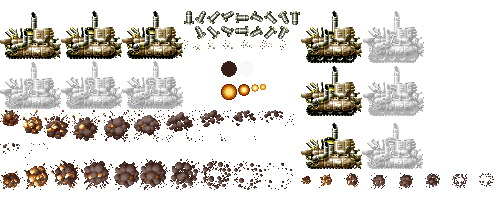
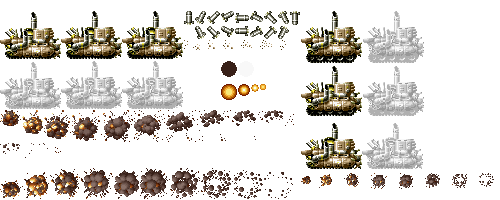
added miniTank full animations (see desc.)
- added miniTank pipe smoke animation when it shoots
- added dust particles to chains
- added damage animations and logic

Changed region(s): [[0.0, 0.81, 0.57, 0.99], [0.57, 0.87, 0.6, 0.9]]

diff --git a/EnemyMiniTank.cpp b/EnemyMiniTank.cpp
@@ -66,6 +66,8 @@ Enemy_MiniTank::Enemy_MiniTank(int x, int y, powerUpTypes type, SDL_Texture* thi
 
 	// -----------------------------------------------------------------
 	enemyTex = thisTexture; // links enemy to correct texture
+	//
+	enemyType = MINITANK;
 
 	powerUpType = type; // assigns receveid powerup
 
@@ -76,19 +78,31 @@ Enemy_MiniTank::Enemy_MiniTank(int x, int y, powerUpTypes type, SDL_Texture* thi
 
 	// animations ------------------------------------------------------------------------------
 	// 
-	// normal anim up 8 frames, 4 and 4 ---
+	// movement normal anim up 8 frames, 4 and 4 ---
 	cartePillar.moveAnim[NORMAL_ANIM].PushBack({61,11,61,48}); // wheels 1 || 4 frames
 	cartePillar.moveAnim[NORMAL_ANIM].PushBack({ 122,11,61,48 }); // wheels 2 || 4 frames
 	cartePillar.moveAnim[NORMAL_ANIM].PushBack({ 0,11,61,48 }); // wheels down || 4 frames
 	cartePillar.moveAnim[NORMAL_ANIM].speed = 0.25f;
+	// movement damage anim
+	cartePillar.moveAnim[DAMAGE_ANIM].PushBack({ 61,61,61,48 }); // wheels 1 || 4 frames
+	cartePillar.moveAnim[DAMAGE_ANIM].PushBack({ 122,61,61,48 }); // wheels 2 || 4 frames
+	cartePillar.moveAnim[DAMAGE_ANIM].PushBack({ 0,61,61,48 }); // wheels down || 4 frames
+	cartePillar.moveAnim[DAMAGE_ANIM].speed = 0.25f;
 	// ------------------------------------
-	// shooting animation ---
+	// shooting animation NORMAL ---
 	cartePillar.shootAnim[NORMAL_ANIM].PushBack({ 301,64,61,52 }); // mid up 4 frames
 	cartePillar.shootAnim[NORMAL_ANIM].PushBack({ 301,11,61,52 }); // top up 4 frames
 	for (int i = 0; i < 6; ++i)
 		cartePillar.shootAnim[NORMAL_ANIM].PushBack({ 301,117,61,52 }); // top down 24 frames
 	cartePillar.shootAnim[NORMAL_ANIM].speed = 0.25f;
 	cartePillar.shootAnim[NORMAL_ANIM].repeat = false;
+	// shooting animation DAMAGE ---
+	cartePillar.shootAnim[DAMAGE_ANIM].PushBack({ 363,64,61,52 }); // mid up 4 frames
+	cartePillar.shootAnim[DAMAGE_ANIM].PushBack({ 363,11,61,52 }); // top up 4 frames
+	for (int i = 0; i < 6; ++i)
+		cartePillar.shootAnim[DAMAGE_ANIM].PushBack({ 363,117,61,52 }); // top down 24 frames
+	cartePillar.shootAnim[DAMAGE_ANIM].speed = 0.25f;
+	cartePillar.shootAnim[DAMAGE_ANIM].repeat = false;
 	// ------------------------------------
 	// dust particles animation 4 frames per each
 	cartePillar.dustAnim.PushBack({ 184,40,4,9 });
@@ -100,6 +114,28 @@ Enemy_MiniTank::Enemy_MiniTank(int x, int y, powerUpTypes type, SDL_Texture* thi
 	cartePillar.dustAnim.PushBack({ 280,40,6,10 });
 	cartePillar.dustAnim.speed = 0.25f;
 	// ------------------------------------
+	// PIPE smoke animation when shoots 8 frames each
+	for (uint i = 0; i < NUM_ROCKETS; ++i)
+	{
+		cartePillar.pipeSmoke[i].anim.PushBack({ 0,110,21,16 });
+		cartePillar.pipeSmoke[i].anim.PushBack({ 22,110,21,24 });
+		cartePillar.pipeSmoke[i].anim.PushBack({ 44,110,27,29 });
+		cartePillar.pipeSmoke[i].anim.PushBack({ 72,110,28,31 });
+		cartePillar.pipeSmoke[i].anim.PushBack({ 101,110,32,32 });
+		cartePillar.pipeSmoke[i].anim.PushBack({ 134,110,31,32 });
+		cartePillar.pipeSmoke[i].anim.PushBack({ 166,110,30,32 });
+		cartePillar.pipeSmoke[i].anim.PushBack({ 197,110,29,31 });
+		cartePillar.pipeSmoke[i].anim.PushBack({ 227,110,29,30 });
+		cartePillar.pipeSmoke[i].anim.PushBack({ 258,110,36,30 });
+		cartePillar.pipeSmoke[i].anim.PushBack({ 0,143,30,28 });
+		cartePillar.pipeSmoke[i].anim.PushBack({ 31,143,17,20 });
+
+		cartePillar.pipeSmoke[i].anim.PushBack({ 55,143,18,10 });
+		cartePillar.pipeSmoke[i].anim.speed = 0.125f;
+		cartePillar.pipeSmoke[i].anim.repeat = false;
+	}
+	cartePillar.pipeSmoke[0].position = { 20,-42 };
+	cartePillar.pipeSmoke[1].position = { 30,-50 };
 	// ------------------------------------------------------------------------------------------
 	// needed values ----------------------
 	// set the initial direction of movement
@@ -203,6 +239,7 @@ void Enemy_MiniTank::Move()
 	if (cartePillar.now_shot_time > cartePillar.cadence_between_shots)
 	{
 		cartePillar.shoot = true;
+		//cartePillar.playPipeSmoke = true;
 	}
 
 
@@ -219,13 +256,29 @@ void Enemy_MiniTank::Move()
 
 void Enemy_MiniTank::Draw()
 {
-
+	// check if we are on shoot condition
 	if (cartePillar.shoot)
 	{
 		cartePillar.current_animation = cartePillar.shootAnim;
 	}
 	else
 		cartePillar.current_animation = cartePillar.moveAnim;
+
+	// timer for damage animation
+	cartePillar.now_damage_time = SDL_GetTicks() - cartePillar.start_damage_time;
+	if (cartePillar.now_damage_time > cartePillar.duration_damage_time && cartePillar.takeDamage)
+	{
+		cartePillar.takeDamage = false;
+		cartePillar.current_animation = &cartePillar.current_animation[NORMAL_ANIM];
+		cartePillar.current_animation->current_frame = cartePillar.current_frame;
+
+	}
+	// check if we are taken damage and swaps
+	if (cartePillar.takeDamage)
+	{
+		cartePillar.current_animation = &cartePillar.current_animation[DAMAGE_ANIM];
+		cartePillar.current_animation->current_frame = cartePillar.current_frame;
+	}
 
 	// checks if the shoot anim is finish and swaps
 	if (cartePillar.shootAnim->finish)
@@ -238,10 +291,48 @@ void Enemy_MiniTank::Draw()
 		cartePillar.shootAnim->finish = false;
 	}
 
+	// DRAW's ---------------------------------------------------------------------------------------------
+	// draw dust particles while cartepillar is moving
+	if (!cartePillar.shoot)
+	{
+		if (cartePillar.moveLeft)
+			App->render->Blit(enemyTex, position.x - 7, position.y - 10, &cartePillar.dustAnim.GetCurrentFrame());
+		else
+			App->render->Blit(enemyTex, position.x + 61, position.y - 10, &cartePillar.dustAnim.GetCurrentFrame());
+	}
+
+	// draw cartepillar body
 	cartePillar.rect = cartePillar.current_animation->GetCurrentFrame();
+	// stores last current frame for swap damage/normal animations
+	cartePillar.current_frame = cartePillar.current_animation->current_frame;
 
 	App->render->Blit(enemyTex, position.x, position.y - cartePillar.rect.h, &cartePillar.rect);
-	
+
+	// Pipe smoke when shoots - first check the shooting animation current frame to instantiate effect on correct timing
+	if (cartePillar.shootAnim->current_frame > 2 && !cartePillar.pipeSmoke[0].playPipeSmoke) // first shot
+		cartePillar.pipeSmoke[0].playPipeSmoke = true;
+	if (cartePillar.shootAnim->current_frame > 4 && !cartePillar.pipeSmoke[1].playPipeSmoke) // first shot
+		cartePillar.pipeSmoke[1].playPipeSmoke = true;
+	// ----
+	for (uint i = 0; i < NUM_ROCKETS; ++i)
+	{
+		if (cartePillar.pipeSmoke[i].playPipeSmoke) // first pipe smoke shot
+		{
+			cartePillar.rect = cartePillar.pipeSmoke[i].anim.GetCurrentFrame();
+
+			App->render->Blit(enemyTex, position.x + cartePillar.pipeSmoke[i].position.x, 
+				position.y - cartePillar.rect.h + cartePillar.pipeSmoke[i].position.y, &cartePillar.rect);
+		}
+		// resets pipe smoke animation when finish
+		if (cartePillar.pipeSmoke[i].anim.finish)
+		{
+			cartePillar.pipeSmoke[i].anim.finish = false;
+			cartePillar.pipeSmoke[i].anim.current_frame = 0;
+			cartePillar.pipeSmoke[i].playPipeSmoke = false;
+		}
+	}
+
+	// ------------------------------------------------------------------------------------------------------
 }
 
 const Collider* Enemy_MiniTank::GetCollider() const
@@ -272,6 +363,38 @@ void Enemy_MiniTank::OnCollision(Collider* collider, Collider* collider2)
 		cartePillar.fposition.x = collider->rect.x - 64; // some position trick to avoid false collisions
 	}
 
+	// damage detection -------------------------------------
+	if (readyToRumble && collider->type == COLLIDER_UNIT) // if the collider is the Unit and is ready to already take damage of it
+	{
+		life -= collider->damage; // substract collider unit charged/normal damage
+		cartePillar.takeDamage = true;
+		cartePillar.start_damage_time = SDL_GetTicks();
+
+	}
+	else if (collider->type != COLLIDER_UNIT)
+	{
+		//life -= collider->damage;
+		cartePillar.takeDamage = true;
+		cartePillar.start_damage_time = SDL_GetTicks();
+	}
+
+}
+
+Enemy_MiniTank::~Enemy_MiniTank() 
+{
+	
+	for (int i = 0; i < MAX_EXTRA_COLLIDERS; ++i)
+	{
+		if (extraColliders[i] != nullptr)
+		{
+			extraColliders[i]->to_delete = true;
+			extraColliders[i] = nullptr;
+		}
+	}
+
+	//App->player[0]->playerScore += enemyScore;
+	App->particles->AddParticle(App->particles->explosion, position.x + 30, position.y - 34, COLLIDER_NONE);
+	App->enemies->AddEnemy(ENEMY_TYPES::ENEMYPILOT, position.x + 30, position.y - 34, NONE);
 
 
 }

diff --git a/EnemyMiniTank.h b/EnemyMiniTank.h
@@ -5,6 +5,8 @@
 #include "Path.h"
 #include "ModuleTextures.h"
 
+#define NUM_ROCKETS 2
+
 class Enemy_MiniTank : public Enemy
 {
 private:
@@ -33,6 +35,14 @@ private:
 		DAMAGE_ANIM
 	};
 
+	struct smokeShoot
+	{
+		Animation anim;
+		SDL_Rect rect;
+		iPoint position;
+		bool playPipeSmoke = false;
+	};
+
 	struct miniTank
 	{
 
@@ -41,9 +51,9 @@ private:
 		Animation moveAnim[2]; // normal and take damage
 		Animation shootAnim[2]; // normal and take damage
 		Animation dustAnim; // particles of wheel chains
-		Animation shotSmokeAnim; // particles when enemy shoots
+		//Animation shotSmokeAnim; // particles when enemy shoots
 		Animation* current_animation = nullptr;
-		// timers ---
+		// timers ------
 		Uint32 start_shot_time;
 		Uint32 now_shot_time;
 		Uint32 cadence_between_shots = 2400; // testing value
@@ -51,6 +61,10 @@ private:
 		Uint32 start_travel_time;
 		Uint32 now_travel_time;
 		Uint32 time_travelling = 2000;
+		// damage timers ---
+		Uint32 start_damage_time;
+		Uint32 now_damage_time;
+		Uint32 duration_damage_time = 50;
 		// ----------
 		float current_frame;
 		bool moveLeft = false;
@@ -69,13 +83,17 @@ private:
 		bool leftCollision = false;
 		bool rightCollision = false;
 		bool firstCollision = false;
-
-
+		//bool playPipeSmoke = false;
+		smokeShoot pipeSmoke[NUM_ROCKETS];
+		bool takeDamage = false;
 	};
+
+	
 
 public:
 
 	Enemy_MiniTank(int x, int y, powerUpTypes type, SDL_Texture * thisTexture = nullptr);
+	~Enemy_MiniTank();
 
 	void Move();
 	void Draw();
@@ -83,6 +101,7 @@ public:
 	const Collider* GetCollider() const;
 
 	miniTank cartePillar;
+	//smokeShoot pipeSmoke[NUM_ROCKETS];
 };
 
 

diff --git a/ModuleEnemies.cpp b/ModuleEnemies.cpp
@@ -371,11 +371,11 @@ void ModuleEnemies::OnCollision(Collider* c1, Collider* c2)
 						App->playerUnit[1]->this_state = actualState::RETURN;
 				}
 
-				if(enemies[i]->enemyType != SUBMARINE)
+				if(enemies[i]->enemyType != SUBMARINE || enemies[i]->enemyType != MINITANK)
 				enemies[i]->life -= c2->damage; //receive unit damage respect the actual unit damage (charged or not amount)
 			}
 
-			if (enemies[i]->enemyType == SUBMARINE)
+			if (enemies[i]->enemyType == SUBMARINE || enemies[i]->enemyType == MINITANK)
 				enemies[i]->OnCollision(c2, c1);
 			
 			enemies[i]->OnCollisionUnit(c2, c1);
